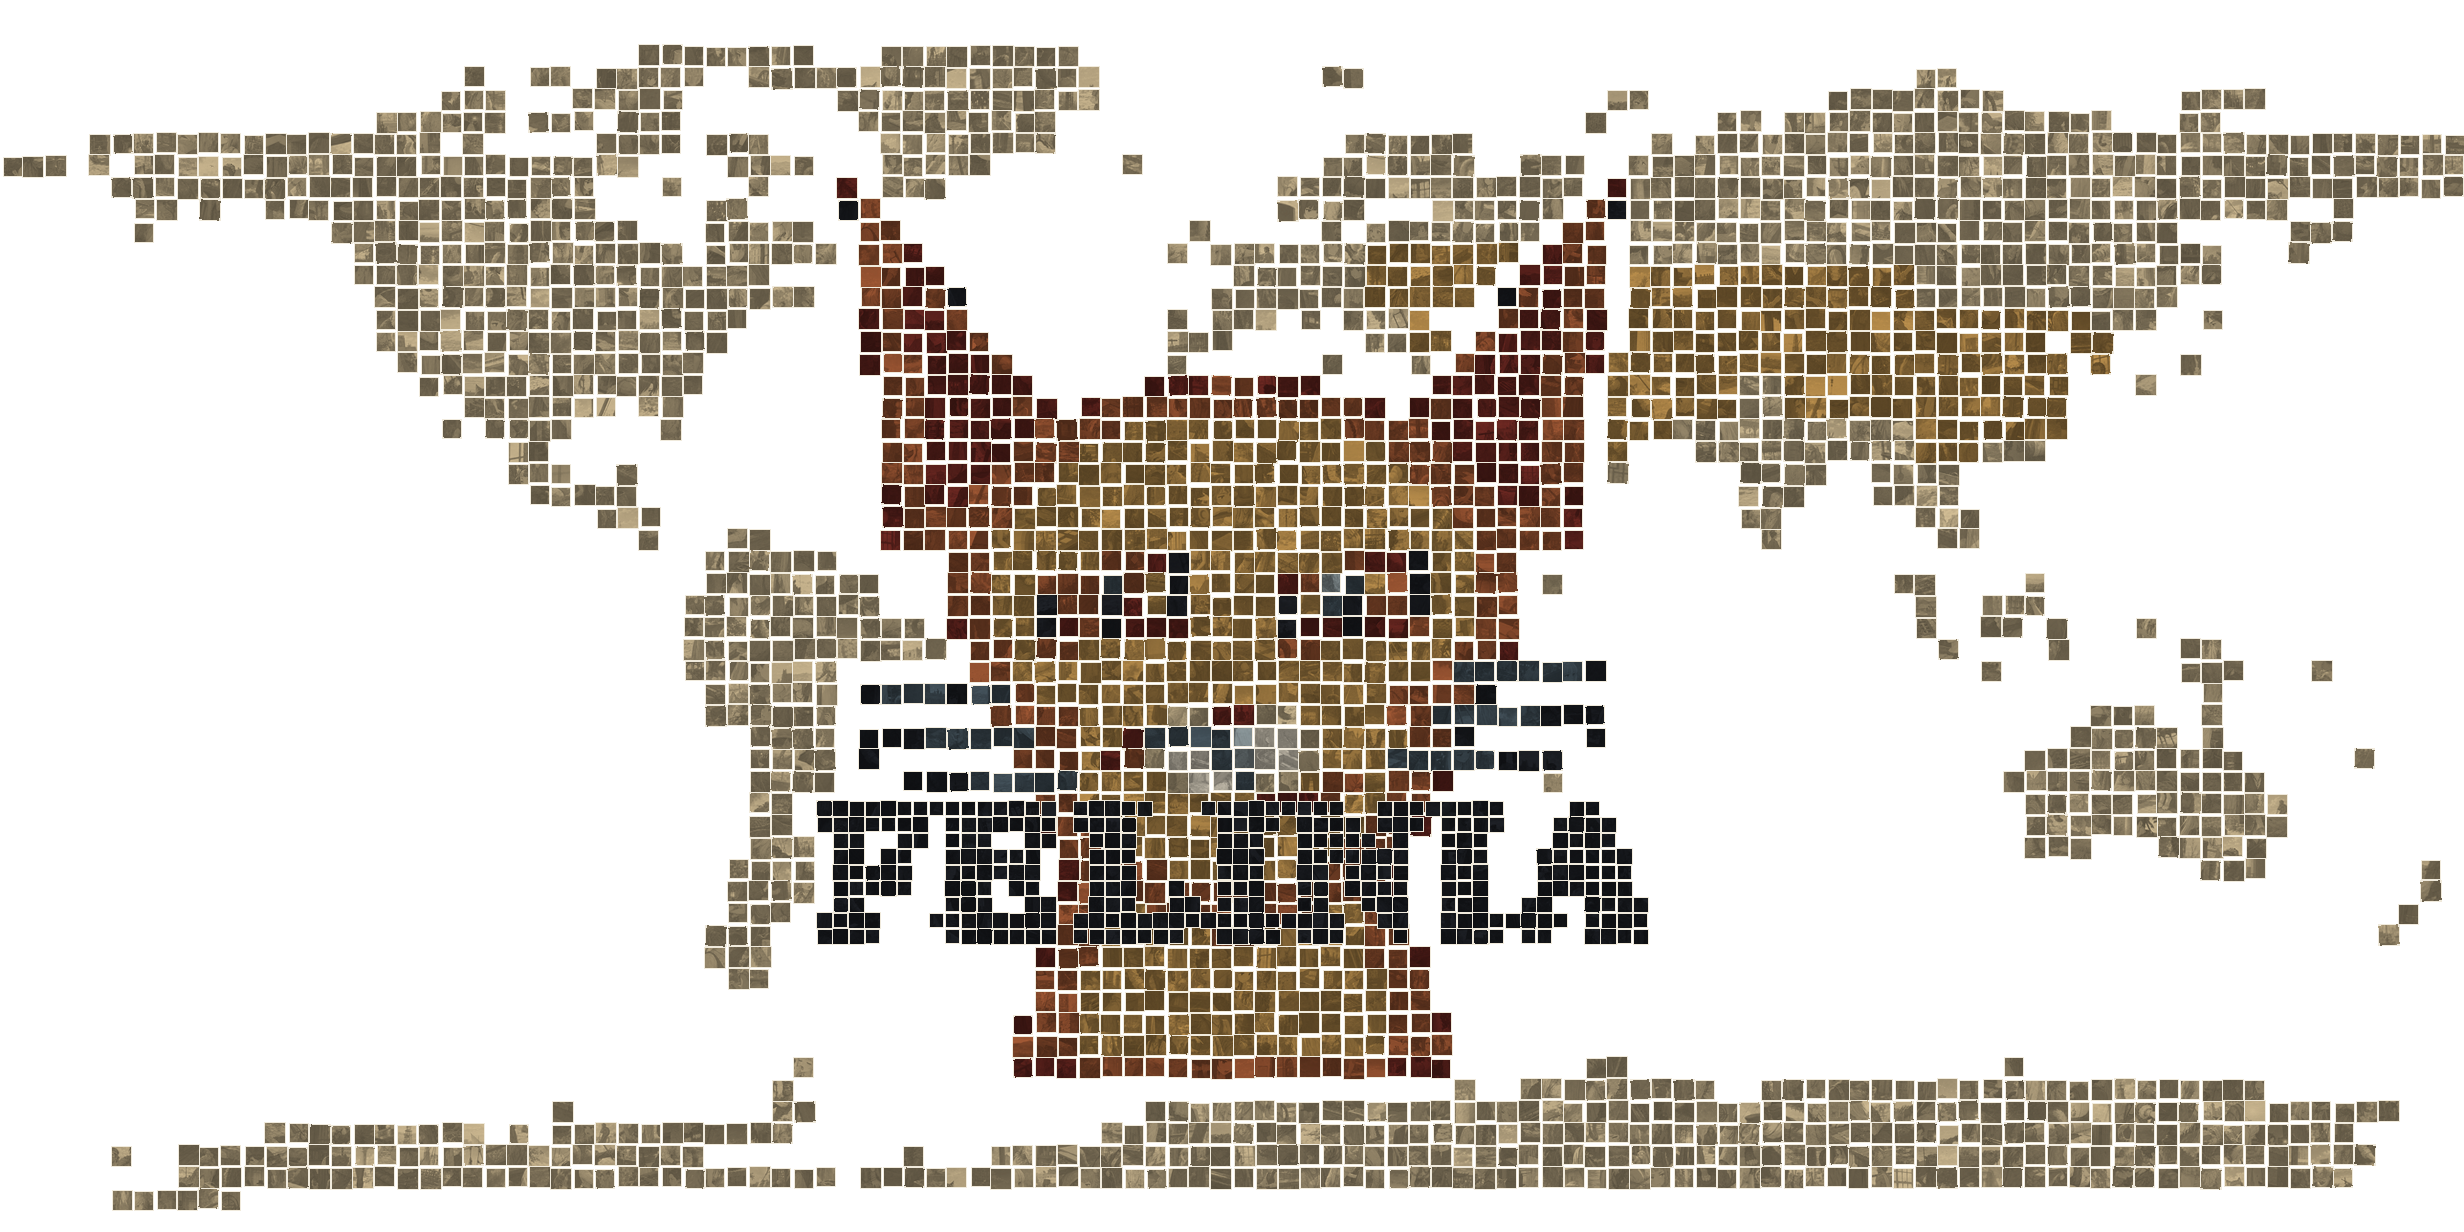
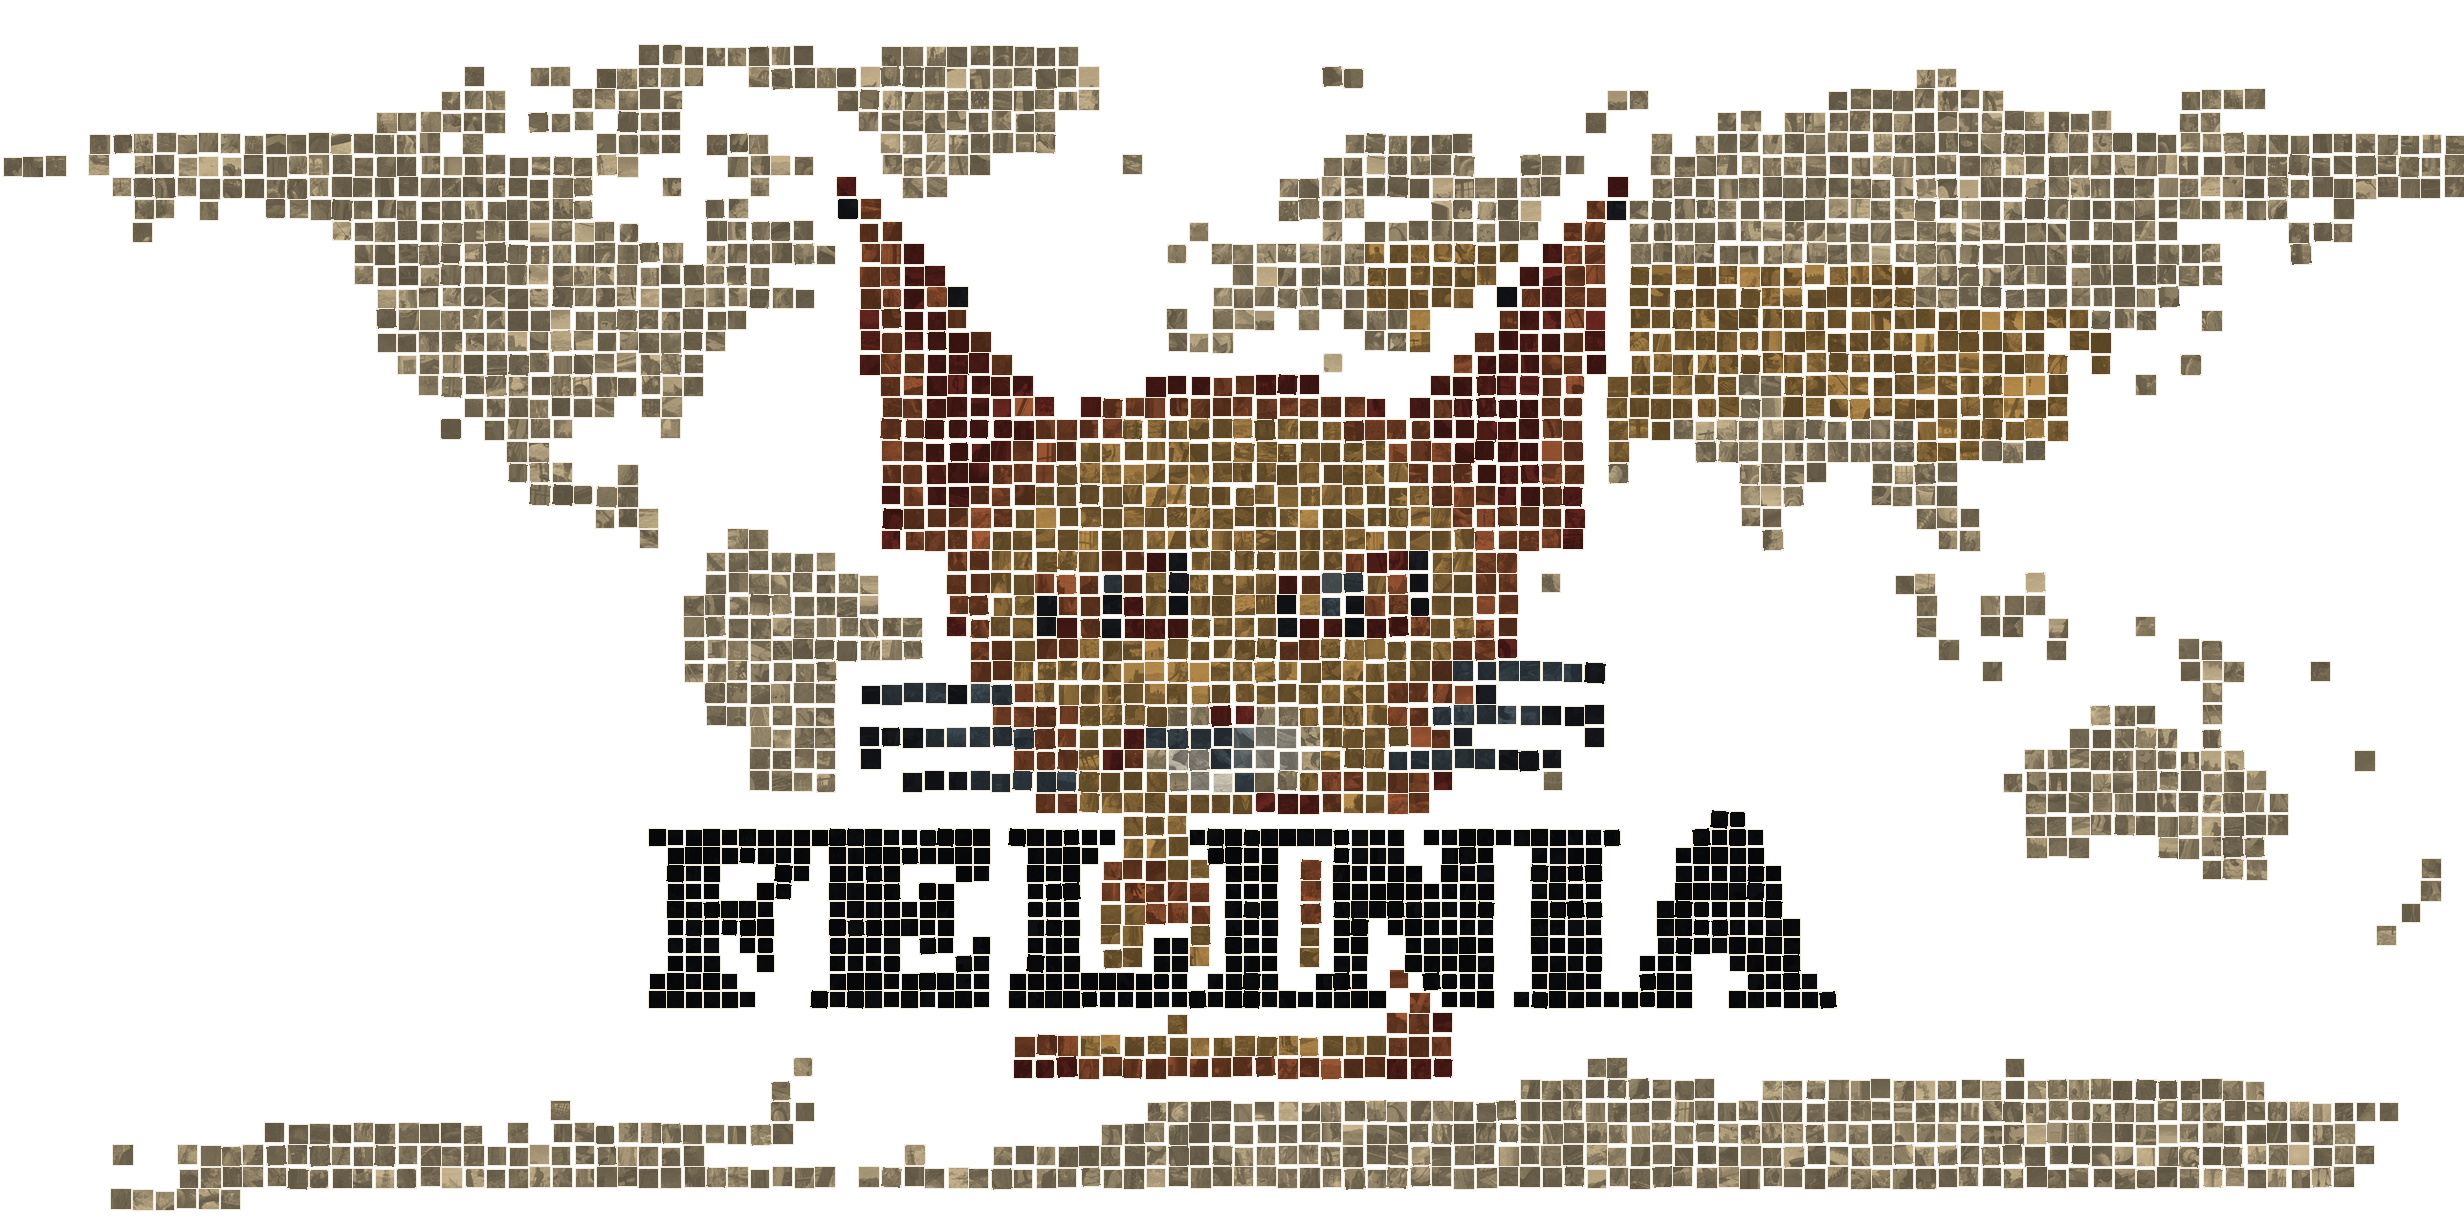
3

diff --git a/tools/mossync.py b/tools/mossync.py
@@ -1,0 +1,32 @@
+#!/usr/bin/env python3
+# -*- coding: utf-8 -*-
+"""把主文档里内联的马赛克位置表刷新成 emblem.json 的当前内容。
+
+砖层图（emblem.png）与位置表是一对；重新生成图案之后光换图不换表，
+网页就会照着旧坐标去裁新图，整幅错位。所以换图必跑这个。
+"""
+import io, json, os, re, sys
+
+ROOT = os.path.dirname(os.path.dirname(os.path.abspath(__file__)))
+DOC  = os.path.join(ROOT, 'core/vendor/three/build/chunks/9d717bc0/156a50943028.html')
+EMB  = os.path.join(ROOT, 'core/res/img/annals/emblem.json')
+
+PAT = re.compile(r'var MOS=\{.*?\};\n', re.S)
+
+
+def main():
+    s = io.open(DOC, encoding='utf-8').read()
+    m = PAT.search(s)
+    if not m:
+        sys.exit('主文档里找不到 var MOS={…}; ——菜单补丁还没打？')
+    if len(PAT.findall(s)) != 1:
+        sys.exit('var MOS 不止一处，停手。')
+    d = json.load(io.open(EMB, encoding='utf-8'))
+    new = 'var MOS=' + json.dumps({'w': d['w'], 'h': d['h'], 'cells': d['cells']},
+                                  separators=(',', ':')) + ';\n'
+    io.open(DOC, 'w', encoding='utf-8').write(s[:m.start()] + new + s[m.end():])
+    print('位置表已刷新：%d 块 · 主文档 %.0f KB' % (len(d['cells']), os.path.getsize(DOC) / 1024))
+
+
+if __name__ == '__main__':
+    main()
